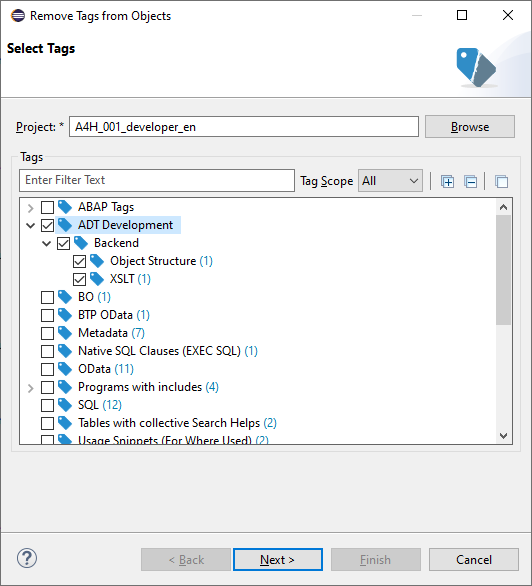
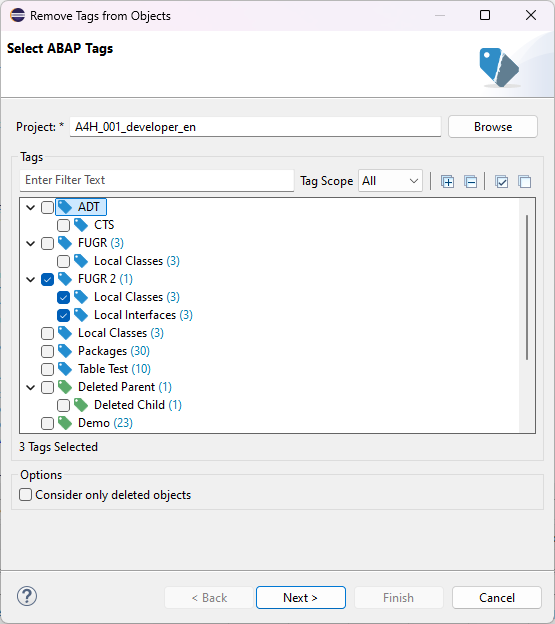
docs(tags): update help for v1.12.0

diff --git a/features/tags/com.devepos.adt.abaptags.doc/html/changelog/latest-release.html b/features/tags/com.devepos.adt.abaptags.doc/html/changelog/latest-release.html
@@ -8,50 +8,30 @@
 </head>
 
 <body id="doc-body">
-    <h2 class="heading">Release Notes of ABAP Tags 1.11.0</h2>
+    <h2 class="heading">Release Notes of ABAP Tags 1.12.0</h2>
 
     <h3 class="heading">ABAP Tags</h3>
     <h4 class="heading">Features</h4>
     <ul class="list">
-        <li>Local Classes/Interfaces of Programs, Program Includes, Function Group Includes and Functions can now be
-            tagged as well
-            <figure>
-                <img src="../../images/tagged-local_class-in-prog_include.png">
-                <figcaption>Example of tagged local interface in Program Include</figcaption>
-            </figure>
-
+        <li> New option <a class="link"
+                href="../unassign_tags_wizard/tag_selection.html#consider_only_deleted_objects_feat"><em>Consider only
+                    deleted objects</em></a> in the <em>Remove Tags from Objects
+                Wizard</em>, that
+            restricts the
+            results to tagged objects where the objects no longer exist in the repository.
             <div class="alert warning">
                 <div class="alert-attention__text"></div>
-                For this feature you have to install at least Version <strong>v2.4.0</strong>
+                Requires version <strong>v2.6.0</strong>
                 of the ADT Backend <a href="https://github.com/DevEpos/abap-tags-backend" target="_blank"
                     class="link external">abap-tags-backend</a>
             </div>
         </li>
-        <li>Object deletion is now possible from <em>Tagged Object Trees</em> (in Project Explorer View)</li>
     </ul>
 
-    <h4 class="heading">Fixes</h4>
+    <h4 class="heading">Changes</h4>
     <ul class="list">
-        <li>Tag removal from local components via <em>Tagged Object Trees</em> (in Project Explorer View)</li>
-    </ul>
-
-    <h3 class="heading">ABAP Tagged Object Search</h3>
-    <h4 class="heading">Features</h4>
-
-    <ul class="list">
-        <li>New unified Search Favorites (<a class="link"
-                href="PLUGINS_ROOT/com.devepos.adt.searchfavorites/html/favorites_overview.html">More Information</a>)
-            <figure>
-                <img src="../../images/tag_search_result-new_favorites.png">
-                <figcaption>New Search Favorites</figcaption>
-            </figure>
-        </li>
-        <li>Text Filter possibility for Search Result View
-            <figure>
-                <img src="../../images/tag_search_result-text_filter.png">
-                <figcaption>Text Filter for Search Result Viewer</figcaption>
-            </figure>
-        </li>
+        <li><a href="../object_tags.html" class="link"><em>Object Tags</em></a>-view now also shows tagged components
+            that no longer exist, to easily delete them</li>
     </ul>
 
     <footer class="custom-footer">

diff --git a/features/tags/com.devepos.adt.abaptags.doc/html/unassign_tags_wizard/tag_selection.html b/features/tags/com.devepos.adt.abaptags.doc/html/unassign_tags_wizard/tag_selection.html
@@ -22,6 +22,19 @@
         <figcaption>Page to select Tags</figcaption>
     </figure>
 
+    <h3 class="heading">Additional options</h3>
+    <ul class="list">
+        <li id="consider_only_deleted_objects_feat">Consider only deleted objects <br>
+            If you are only interested in removing tags from objects that no longer exist in the repository (i.e.
+            TADIR), then activate this option.
+            <div class="alert warning">
+                <div class="alert-info__text"></div>
+                Requires version <strong>v2.6.0</strong> of the ADT Backend <a
+                    href="https://github.com/DevEpos/abap-tags-backend" target="_blank"
+                    class="link external">abap-tags-backend</a>
+            </div>
+        </li>
+    </ul>
 
     <h3 class="heading">Keyboard Shortcuts</h3>
     <table>
@@ -44,7 +57,7 @@
             <figcaption>Select Subtree Action</figcaption>
         </figure>
     </div>
-    
+
     <h3 class="heading">Next Page</h3>
     <a href="./object_selection.html" class="link">Object Selection</a>
 </body>

diff --git a/features/tags/com.devepos.adt.abaptags.doc/css/main.css b/features/tags/com.devepos.adt.abaptags.doc/css/main.css
@@ -38,6 +38,29 @@ p,
     padding-right: 5px;
 }
 
+.tag {
+    display: inline;
+}
+
+.tag-label {
+    font-size: 11px;
+    padding: 2px 3px;
+    border-top-left-radius: 5px;
+    border-bottom-left-radius: 5px;
+    background-color: rgb(74, 74, 74);
+    color: white;
+    text-shadow: 1px 1px 2px black;
+}
+
+.tag-version {
+    font-size: 11px;
+    padding: 2px 3px;
+    background-color: #ffd400;
+    border-top-right-radius: 5px;
+    border-bottom-right-radius: 5px;
+    color: #333;
+}
+
 .list {
     font-size: 13px;
     margin: 0;

diff --git a/features/tags/com.devepos.adt.abaptags.doc/html/changelog/overview.html b/features/tags/com.devepos.adt.abaptags.doc/html/changelog/overview.html
@@ -23,7 +23,7 @@
             <th style="text-align: left;">ABAP Back End</th>
         </tr>
         <tr>
-            <td><a class="link" href="./latest-release.html">Version 1.11.0</a></td>
+            <td><a class="link" href="./latest-release.html">Version 1.12.0</a></td>
             <td><a class="link external" href="https://github.com/DevEpos/abap-tags-backend"
                     target="_blank">abap-tags-backend
                     (abapGit)</a></td>
